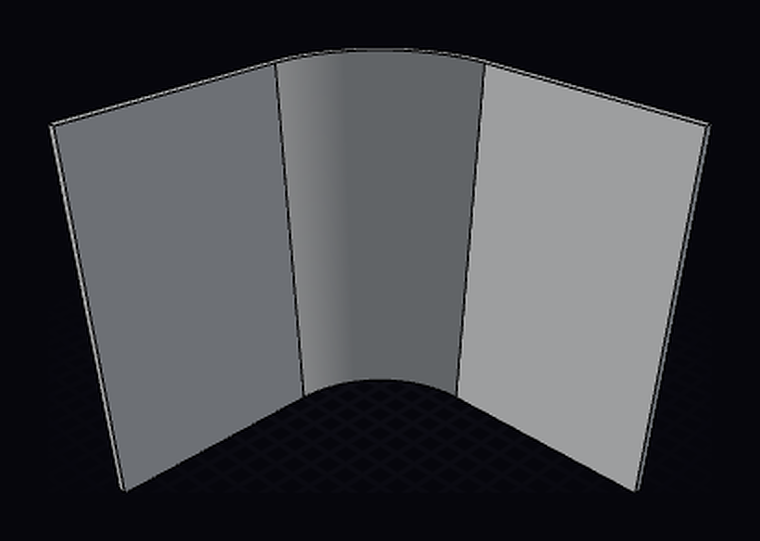
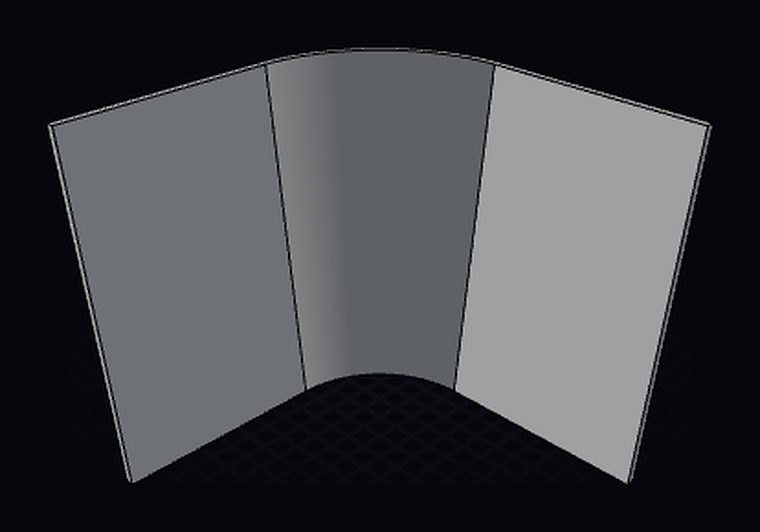
Adjust side lean to 6 degress

diff --git a/src/corner-panel.brep.ts b/src/corner-panel.brep.ts
@@ -6,7 +6,7 @@
  * the groove of the handle-end post on that side with the other. The legs meet
  * in a rounded bend rather than a sharp corner.
  *
- * Each leg leans 3° outward to sit in its posts' grooves, so the bend is a
+ * Each leg leans 6° outward to sit in its posts' grooves, so the bend is a
  * slice of a cone, flaring like the corners of the bucket itself. Both legs stay
  * the same length top to bottom, so their ends sit square in the grooves.
  *
@@ -42,8 +42,8 @@ export const params = {
 const rad = (post.lean * Math.PI) / 180;
 
 /** Vertical height, and how far each leg has leaned out by the top. */
-const rise = params.height * Math.cos(rad); // 149.79
-const lean = params.height * Math.sin(rad); // 7.85
+const rise = params.height * Math.cos(rad); // 149.18
+const lean = params.height * Math.sin(rad); // 15.68
 
 /**
  * Half the panel's thickness measured horizontally. The legs lean, so this is

diff --git a/src/side-extension.brep.ts b/src/side-extension.brep.ts
@@ -29,7 +29,7 @@ export const params = {
   extension: 150,
 
   /** Outward lean of the post from vertical, in degrees. */
-  lean: 3,
+  lean: 6,
 
   /** Panel groove across the face (X) and into it (Y). Centred on the face. */
   grooveWidth: 4,
@@ -45,7 +45,7 @@ const pivot: [number, number, number] = [0, 0, params.insertDepth];
 
 /**
  * The leaning post is built upright, starting this far below the rim, then
- * tilted and trimmed flat at the rim. Enough to cover the 0.5mm the tilt lifts
+ * tilted and trimmed flat at the rim. Enough to cover the 1mm the tilt lifts
  * its bottom edge on the inner side.
  */
 const BELOW = 2;

diff --git a/README.md b/README.md
@@ -77,24 +77,24 @@ Verified against the OCCT kernel: valid single solid, manifold, 23 faces, boundi
 
 ![The side extension post: a straight insert with a post above it leaning slightly outward, grooved down both narrow faces](media/side-extension.png)
 
-Eight identical posts, one per cutout, that raise the bucket walls to carry more than 200L. Each post stands 150 mm above the rim, leaning 3° outward. A groove down each face that points along the rim takes the edge of a side panel. The panel drops in from the top and spans to the next post. Source: [src/side-extension.brep.ts](src/side-extension.brep.ts).
+Eight identical posts, one per cutout, that raise the bucket walls to carry more than 200L. Each post stands 150 mm above the rim, leaning 6° outward. A groove down each face that points along the rim takes the edge of a side panel. The panel drops in from the top and spans to the next post. Source: [src/side-extension.brep.ts](src/side-extension.brep.ts).
 
 | | |
 |---|---|
 | Insert | 19.2 × 51.0 mm key, bottom 63.5 mm straight down into the cutout |
 | Post | Same section, 150 mm above the rim measured along its axis |
-| Lean | 3° outward (toward +X), pivoting about the rim line; trimmed flat where it meets the insert |
+| Lean | 6° outward (toward +X), pivoting about the rim line; trimmed flat where it meets the insert |
 | Grooves | 4 mm wide × 8 mm deep, centred on both ±Y faces, open at the top, floor at rim height |
 | Material left | 7.6 mm either side of each groove, 35 mm core between the groove floors |
-| Overall | 27.05 (X) × 51.0 (Y) × 213.8 (Z) mm; top 150.3 mm above the rim |
+| Overall | 34.88 (X) × 51.0 (Y) × 213.7 (Z) mm; top 150.2 mm above the rim |
 
-Fit each post with its lean pointing out of the cart. All posts on a side lean the same way, so the panel between two of them lies flat in a plane leaning 3° out.
+Fit each post with its lean pointing out of the cart. All posts on a side lean the same way, so the panel between two of them lies flat in a plane leaning 6° out.
 
-Panels only span posts on the same side: two panels on each long side and one across the handle end, five in all. The corners and the end away from the handle stay open. If the 11 in gap is edge to edge, it is 295.4 mm between groove floors. Panels should be cut shorter than that and thinner than 4 mm for clearance.
+Panels only span posts on the same side: two panels on each long side and one across the handle end, five in all. Corner panels close the two handle-end corners; the end away from the handle stays open. If the 11 in gap is edge to edge, it is 295.4 mm between groove floors. Panels should be cut shorter than that and thinner than 4 mm for clearance.
 
 The insert takes no height off for fit tolerance, unlike the machete sleeve.
 
-Verified against the OCCT kernel: valid single solid, manifold, 30 faces, bounding box 27.05 × 51 × 213.8. Measured volume 197809.77 mm³ matches the analytic figure, and the lean shows in the bounds: the top outer corner reaches x = 17.44. Not yet printed or test-fitted.
+Verified against the OCCT kernel: valid single solid, manifold, 30 faces, bounding box 34.88 × 51 × 213.7. Measured volume 197809.77 mm³ matches the analytic figure, and the lean shows in the bounds: the top outer corner reaches x = 25.23. Not yet printed or test-fitted.
 
 ### Side panels
 
@@ -122,18 +122,18 @@ Closes each handle-end corner, from the long-side post nearest the handle to the
 | | |
 |---|---|
 | Legs | 144.5 mm from the corner to each end, 3.7 mm thick, 150 mm up the slope |
-| Bend | 50 mm radius on the centreline at the bottom, growing to 57.85 at the top |
-| Lean | Each leg leans 3° outward to match its posts' grooves, so the bend is a slice of a cone |
+| Bend | 50 mm radius on the centreline at the bottom, growing to 65.68 at the top |
+| Lean | Each leg leans 6° outward to match its posts' grooves, so the bend is a slice of a cone |
 | Ends | Square to their legs and the same length top to bottom; 0.15 mm clear of each groove floor |
-| Overall | 154.2 × 154.2 × 149.8 mm, printed standing on its bottom edge |
+| Overall | 162.0 × 162.0 × 149.2 mm, printed standing on its bottom edge |
 
-The corner panel prints as modelled, standing up. The 3° lean is the only overhang. Use a brim, since it's a tall thin wall.
+The corner panel prints as modelled, standing up. The 6° lean is the only overhang. Use a brim, since it's a tall thin wall.
 
-The two legs lean in different directions, so the panel can't slide straight down into posts that are already fitted. Instead, fit it into the two posts' grooves first, then lower the posts and the panel into the cutouts together.
+The two legs lean in different directions, so the panel can't slide straight down into posts that are already fitted: at 6° the ends would have to travel 15.7 mm sideways, almost twice the 8 mm groove depth. Instead, fit it into the two posts' grooves first, then lower the posts and the panel into the cutouts together.
 
 **The corner layout is not measured.** The handle-end leg comes from the 655 mm span and the assumed handle-end gap. The long-side leg is a placeholder set equal to it, which makes the corner square, so one part fits both corners. Measure the distance along the cart from the handle-end cutouts' centreline to the centre of the nearest long-side cutout, and set `corner.along` in [src/cart.ts](src/cart.ts). If it differs from 162.15, the two corners need mirrored parts.
 
-Verified: valid single solid, manifold, 10 faces, bounding box 154.2 × 154.2 × 149.8. Measured volume 151906.55 mm³ matches the analytic figure.
+Verified: valid single solid, manifold, 10 faces, bounding box 162.0 × 162.0 × 149.2. Measured volume 155319.13 mm³ matches the analytic figure.
 
 ## Toolchain
 
